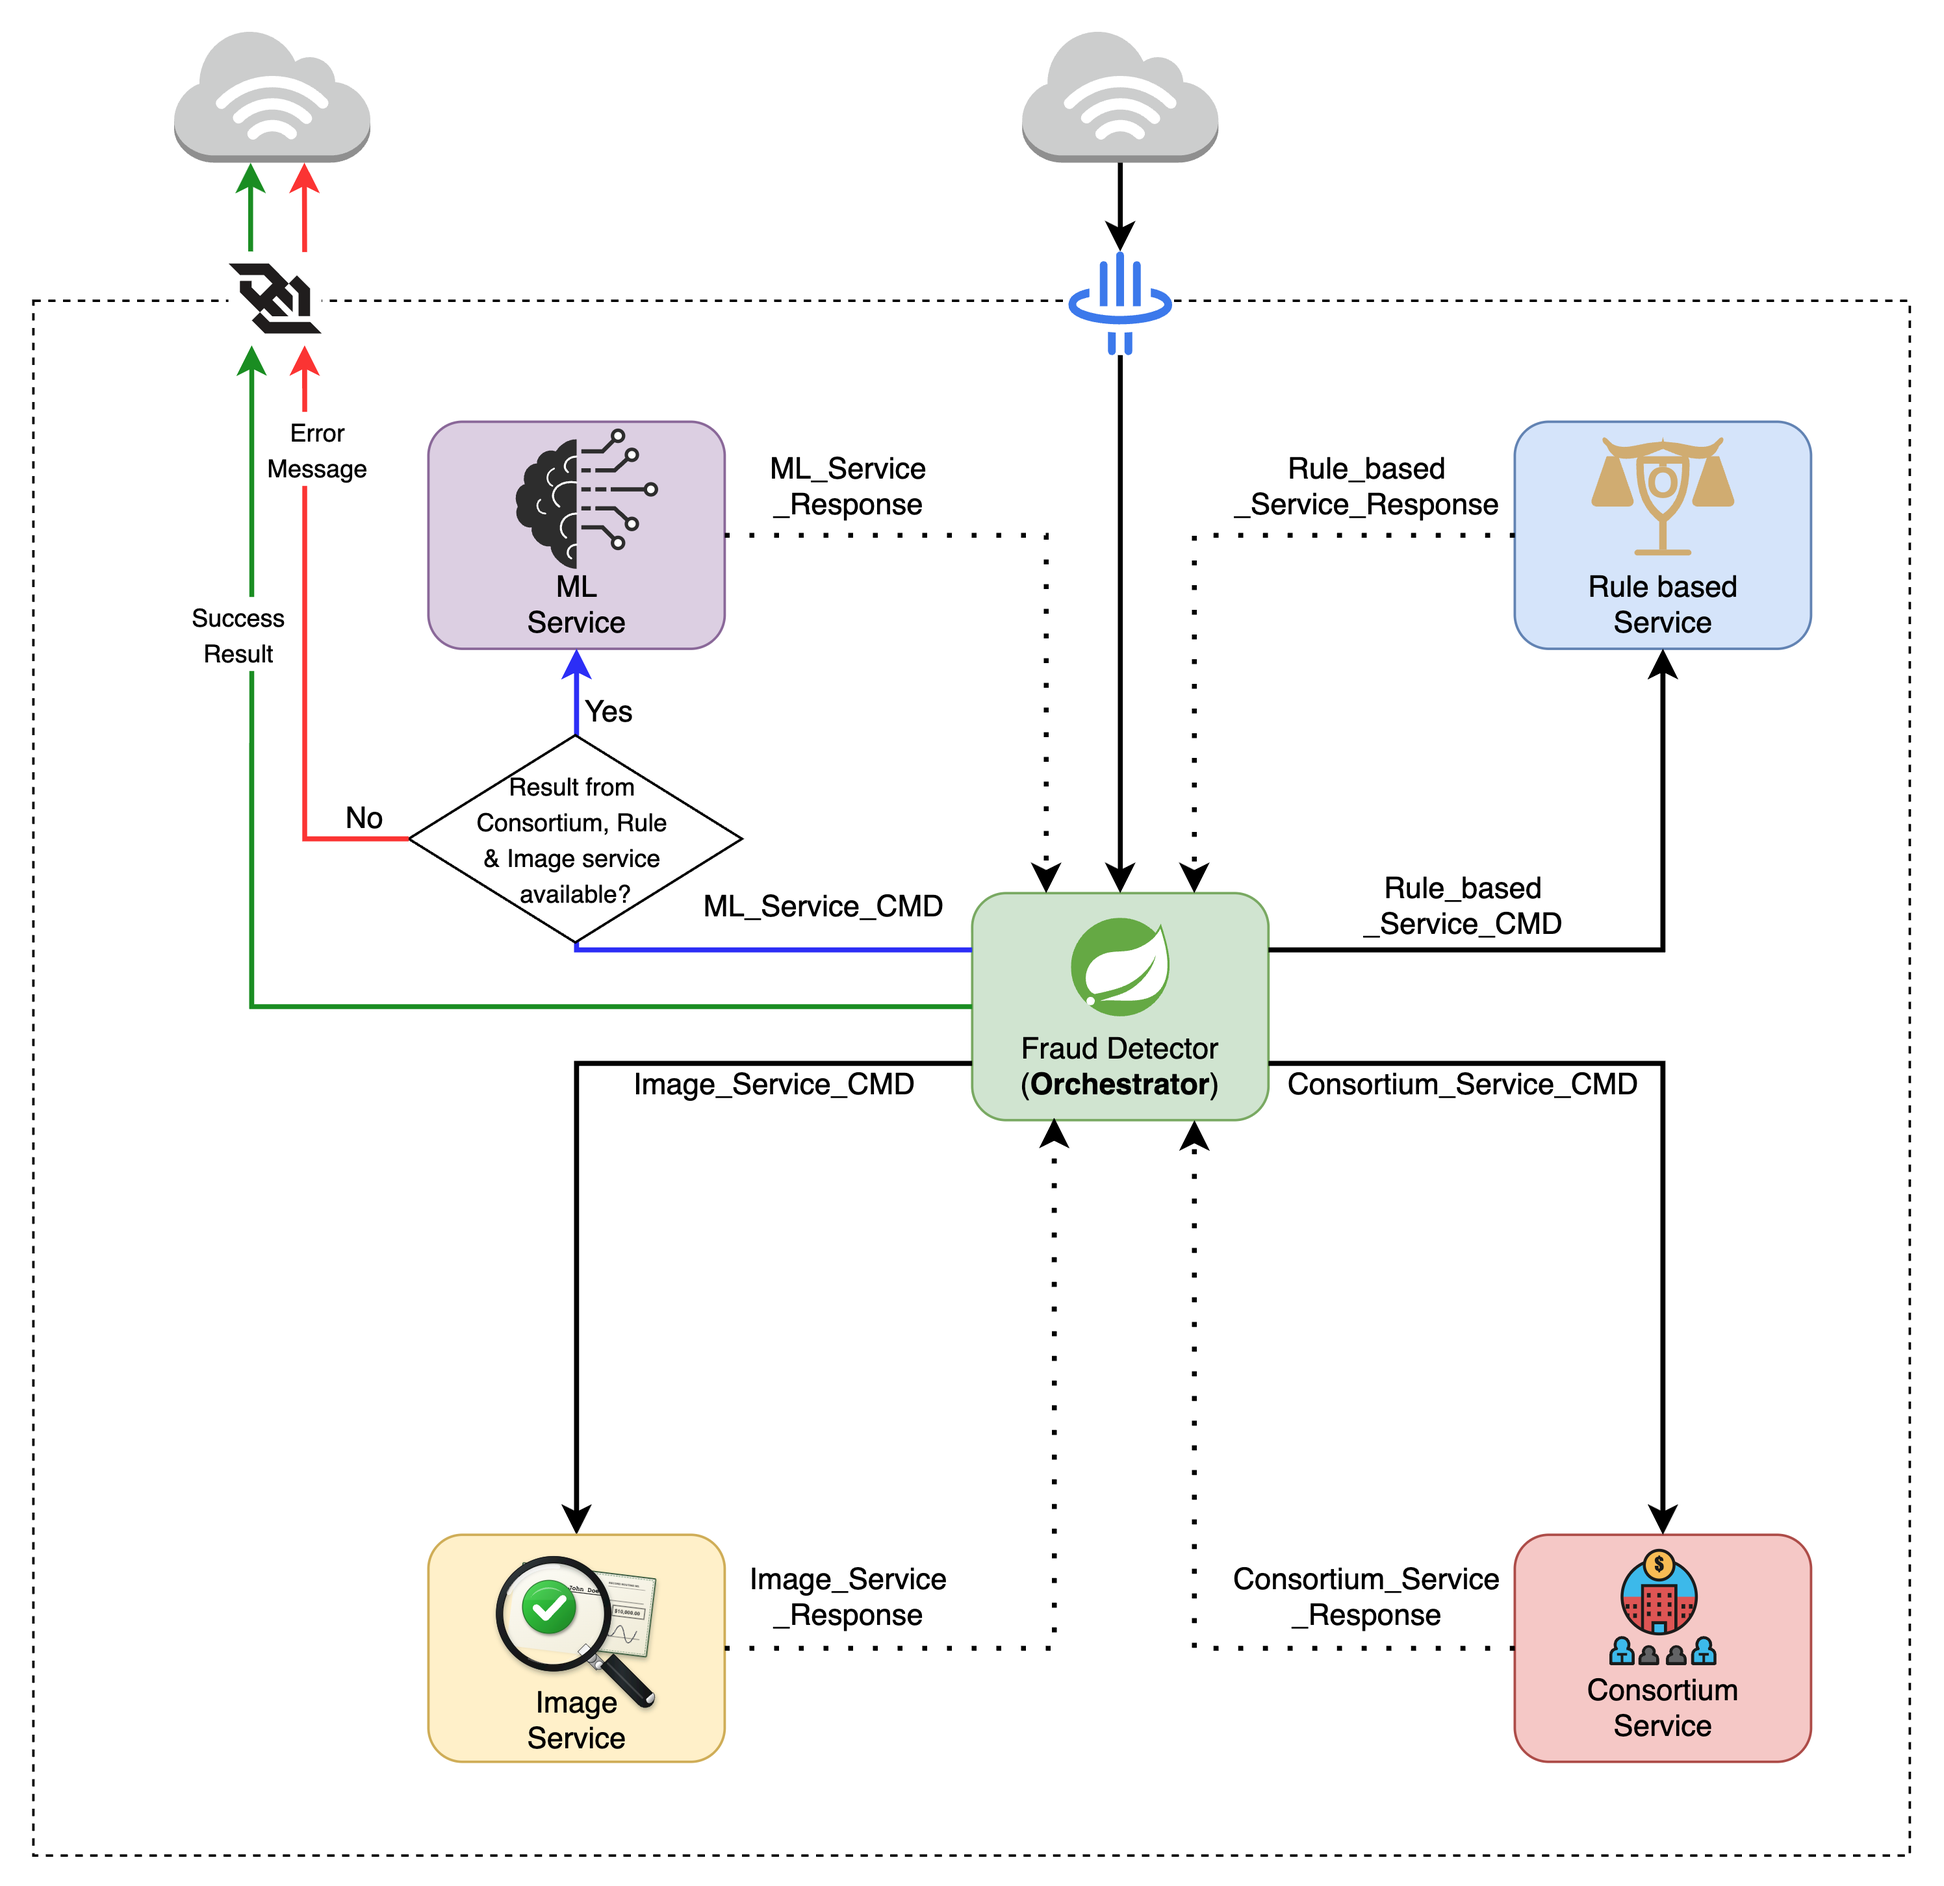
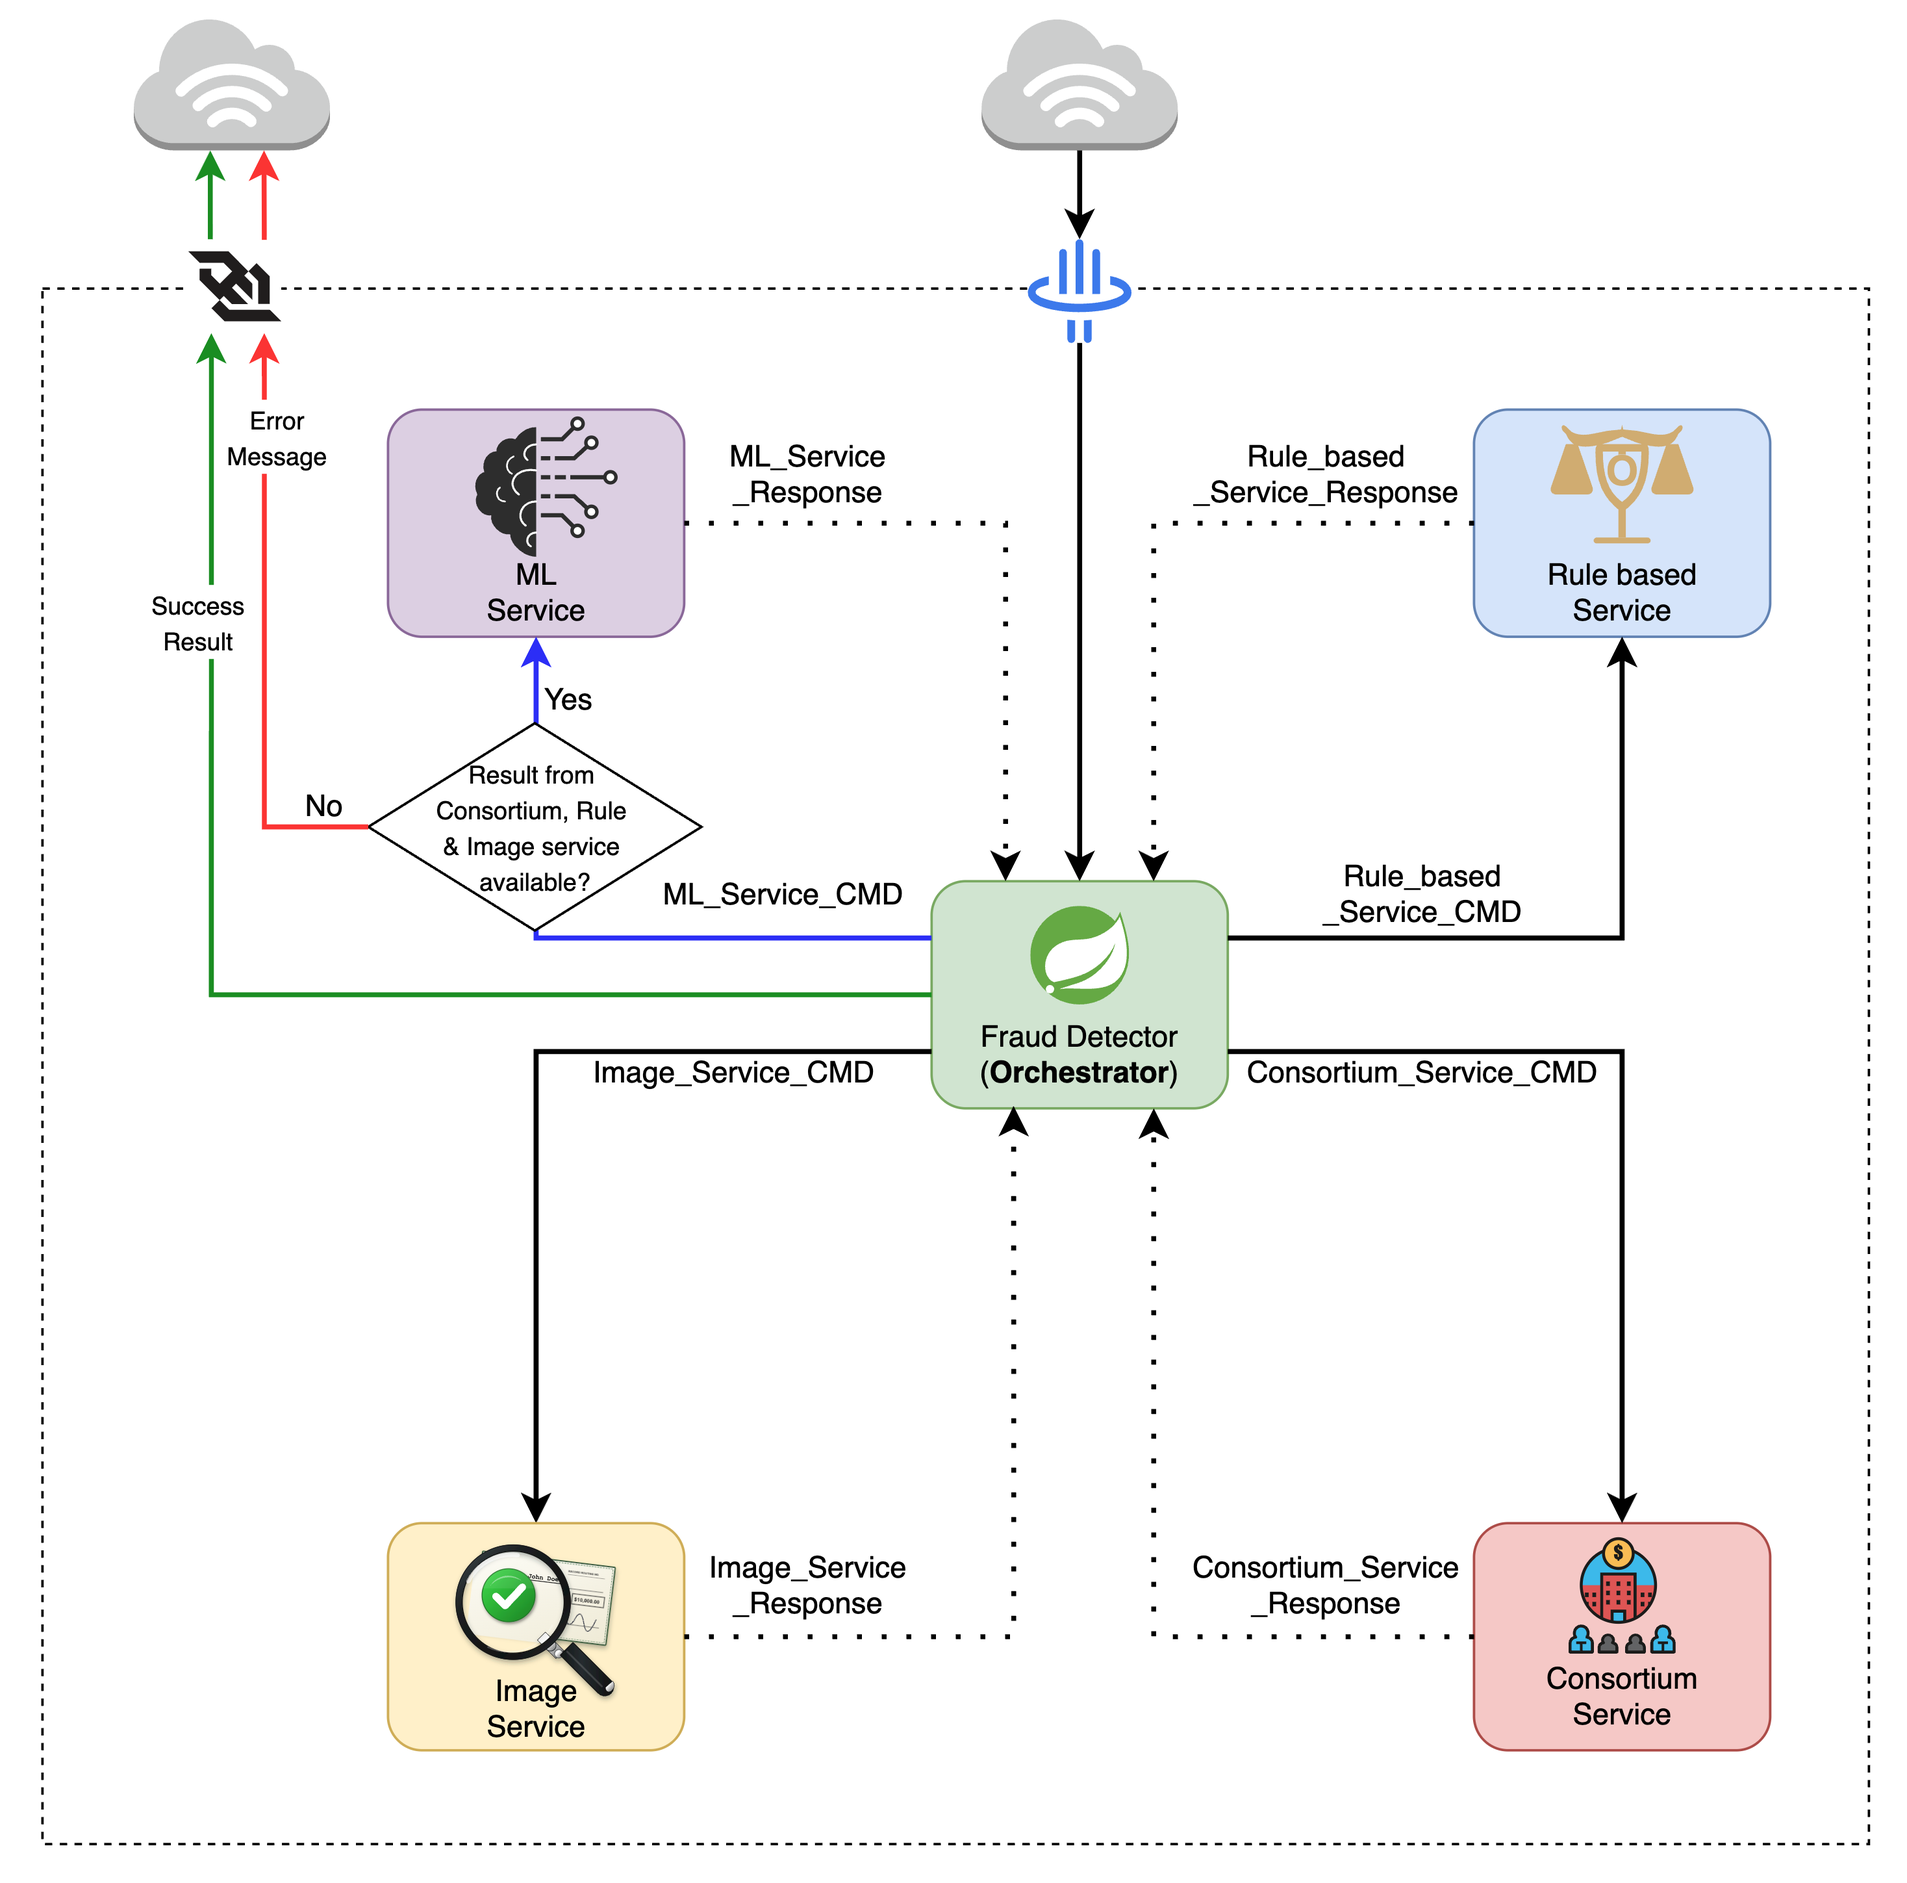
sequence diagram added

Changed region(s): [[0.062, 0.0, 0.9298, 0.9627]]

diff --git a/services/README.md b/services/README.md
@@ -1,52 +1,13 @@
 # System Architecture
 Full Cheque fraud detection system follows a microservices architecture with the following components:
-1. **fraud-detector**: This service acts as an orchestrator between all the other services. Receives deposit event ingestion, publishes kafka events to other services. Tracks the results from consortium and image services, publishes kafka event to ml service. Provides error or success response to the application through websocket.
-2. **consortium-service**: Implements privacy-preserving techniques to enable cross-institution fraud detection without sharing raw PII data. It stores HMAC tokens, aggregate counts, risk scores, and fraud metadata to identify potential fraud patterns across multiple banks while maintaining data privacy.
-3. **image-service**: Analyzes cheque images using computer vision techniques to extract features such as handwriting analysis, signature verification, and cheque alteration detection. It provides additional insights and risk factors for the ML scoring service.
-4. **ml-service**: Receives events from the fraud-detector, processes the data using a machine learning model to generate a fraud risk score. The model is trained on historical data and incorporates features from the consortium and image services to improve accuracy.
-5. **rules-service**: Implements a rules engine that evaluates the fraud risk score and other factors to determine the appropriate action (e.g., hold, manual review, pass). It allows for dynamic rule updates without redeploying the entire system.
+1. **Fraud Detector(Orchestrator)**: This service acts as an orchestrator between all the other services. Receives deposit event ingestion, publishes kafka events to other services. Tracks the results from consortium and image services, publishes kafka event to ml service. Provides error or success response to the application through websocket.
+2. **Consortium Service**: Implements privacy-preserving techniques to enable cross-institution fraud detection without sharing raw PII data. It stores HMAC tokens, aggregate counts, risk scores, and fraud metadata to identify potential fraud patterns across multiple banks while maintaining data privacy.
+3. **Image Service**: Analyzes cheque images using computer vision techniques to extract features such as handwriting analysis, signature verification, and cheque alteration detection. It provides additional insights and risk factors for the ML scoring service.
+4. **ML Service**: Receives events from the fraud-detector, processes the data using a machine learning model to generate a fraud risk score. The model is trained on historical data and incorporates features from the consortium and image services to improve accuracy.
+5. **Rule based Service**: Implements a rules engine that evaluates the fraud risk score and other factors to determine the appropriate action (e.g., hold, manual review, pass). It allows for dynamic rule updates without redeploying the entire system.
 
 <img src="resources/image/system_architecture.png" alt="System Architecture" width="1920">
 
-## Included
+## Sequence Diagram
 
-- Spring Boot API: deposit ingest, alert/case workflow, rules engine, Kafka publish
-- PostgreSQL schema: events, scores, rule hits, alerts, cases, audit
-- Python FastAPI services:
-  - ML scoring
-  - image analysis placeholder
-  - privacy-preserving consortium matching
-- Synthetic data generator for 3–5 banks and fraud scenarios
-- Docker Compose for PostgreSQL, Kafka, API, ML, image, consortium, Prometheus, Grafana
-
-## Quick start
-
-```bash
-docker compose up --build
-```
-
-Generate synthetic CSVs:
-
-```bash
-python synthetic-data/generate_synthetic_data.py --out synthetic-data/out --banks 5 --events 2000
-```
-
-Example request:
-
-```bash
-curl -X POST http://localhost:8080/api/deposits \
-  -H "Content-Type: application/json" \
-  -d @examples/deposit_event.json
-```
-
-## Decision policy
-
-```text
-score >= 0.85 OR duplicate presentment => HOLD
-score >= 0.60 OR consortium high risk => MANUAL_REVIEW
-else PASS
-```
-
-## Privacy model
-
-The consortium layer stores HMAC tokens, aggregate counts, risk scores, and fraud metadata. It does not store raw cross-institution PII.
+<img src="resources/image/sequence_diagram.png" alt="Sequence Diagram" width="1920">
